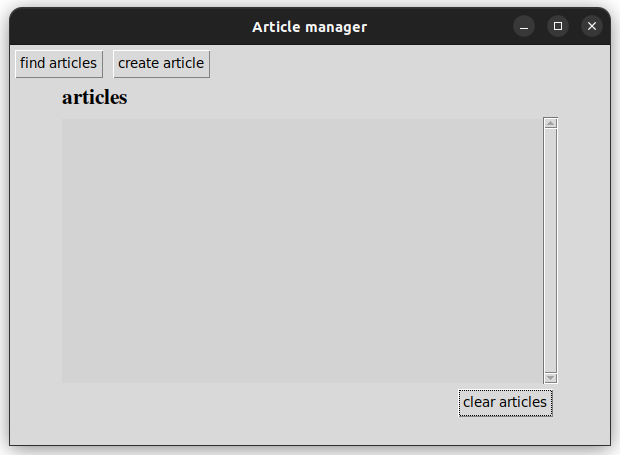
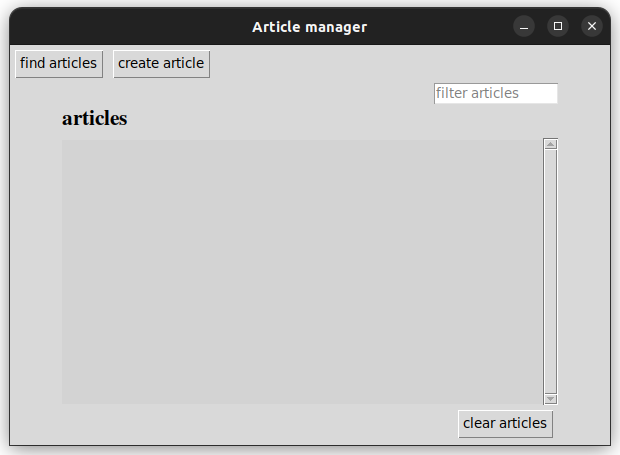
documentation

Changed region(s): [[0.7355, 0.8308, 0.9194, 0.9538], [0.6742, 0.1846, 0.9194, 0.3077], [0.0919, 0.1846, 0.2145, 0.2769]]

diff --git a/src/ui/articles_view.py b/src/ui/articles_view.py
@@ -138,7 +138,6 @@ class ArticlesView:
             self._article_list_view.destroy()
 
         if filtered_articles is None:
-            print("fetching articles from db")
             articles = article_service.get_all_articles()
             self._articles = articles
         else:

diff --git a/dokumentaatio/testaus.md b/dokumentaatio/testaus.md
@@ -1,0 +1,42 @@
+# Testausdokumentti
+
+Ohjelmaa on testattu automatisoidiun yksikkö- ja integraatiotestein unittestilla sekä manuaalisesti järjestelmätasolla.
+
+## Yksikkö- ja integraatiotestaus
+
+### Sovelluslogiikka
+
+Sovelluslogiikasta vastaavia `ArticleService`- ja `FeedService`-luokkia testataan [TestArticleService](https://github.com/jipeso/ohjelmistotekniikka/blob/main/src/tests/services/article_service_test.py)- ja [TestFeedService](https://github.com/jipeso/ohjelmistotekniikka/blob/main/src/tests/services/feed_service_test.py)-testiluokilla. `ArticleService`- ja `FeedService`-oliot alustetaan niin, että niille injektoidaan vastaavat repositorio-oliot, jotka tallentavat tietoa muistiin pysyväistallennuksen sijaan. Tätä varten on käytössä luokat `ArticleRepositoryStub` ja `FeedRepositoryStub`.
+
+### Repositorio-luokat
+
+Repositorio-luokkien `ArticleRepository` ja `FeedRepository` testaamiseen käytetään erilisiä testitiedostoja, joiden nimet on konfiguroitu _.env.test_-tiedostoon. `ArticleRepository` ja `FeedRepository`-luokkia testataan vastaavasti [TestArticleRepository](https://github.com/jipeso/ohjelmistotekniikka/blob/main/src/tests/repositories/article_repository_test.py)- ja [TestFeedRepository](https://github.com/jipeso/ohjelmistotekniikka/blob/main/src/tests/repositories/feed_repository_test.py)-testiluokilla.
+
+### Testikattavuus
+
+Käyttöliittymäkerrosta lukuunottamatta sovelluksen testauksen haaraumakattavuus on 80%.
+
+![](./kuvat/testikattavuus.png)
+
+Testaamatta jäivät `ArticleService`-luokan uusimmat metodit edit_article, filter_articles ja scrape_web_article sekä `FeedService`-luokan parse_feed metodi. Lisäksi _build.py_- ja _initialize\_database.py_-tiedostojen suorittaminen komentoriviltä ja jäi testaamatta.
+
+## Järjestelmätestaus
+
+Sovelluksen järjestelmätestaus on tehty manuaalisesti.
+
+### Asennus ja konfigurointi
+
+Sovellus on ladattu ja sitä on testattu [käyttöohjeen](./kayttoohje.md) mukaisesti Linux-ympäristössä.
+
+Sovellusta on testattu Linuxilla tilanteissa, joissa artikkelit tallettavaa tiedostoa ei ole olemassa, jolloin ohjelma on luonut sen itse sekä tilanteissa, joissa tiedosto on ollut olemassa.
+
+### Toiminnallisuudet
+
+Kaikki [määrittelydokumentin](./vaatimusmaarittely.md#toiminnallisuus) ja käyttöohjeen listaamat toiminnallisuudet on testattu. Toiminnallisuuksien yhteydessä syötekentät on yritetty jättää tyhjiksi, muuten sovellus ei rajoita syötekenttiin syötettyjä arvoja.
+
+### Sovellukseen jääneet laatuongelmat
+
+Sovellus ei anna virheilmoituksia seuraavissa tilanteissa:
+
+- Tietokantaa ei ole alustettu ennen sovelluksen käynnistämistä.
+- Uuden artikkelin luomisnäkymässä "url"-kenttään syötetään virheellinen verkko-osoite.

diff --git a/dokumentaatio/kayttoohje.md b/dokumentaatio/kayttoohje.md
@@ -4,10 +4,9 @@ Lataa projektin viimeisimmän [releasen](https://github.com/jipeso/ohjelmistotek
 
 ## Konfigurointi
 
-Tallennustiedostojen nimiä voi muuttaa _.env_ tiedostossa. Tiedostot luodaan automaattisesti _data_-hakemistoon. Tiedostojen nimet voidaan asettaa esimerkiksi seuraavasti:
+Artikkelien tallennustiedoston nimeä muuttaa _.env_ tiedostossa. Tiedosto luodaan automaattisesti _data_-hakemistoon. Tiedoston nimi voidaan asettaa seuraavasti:
 
 ```
-FEEDS_FILENAME=feeds.json
 DATABASE_FILENAME=db.sqlite
 ```
 

diff --git a/dokumentaatio/changelog.md b/dokumentaatio/changelog.md
@@ -29,3 +29,4 @@
 ## Viikko 7
 
 - Artikkelien tallentaminen sqlite-tietokantaan
+- Artikkelilistaa voi suodattaa syötekentän avullla
